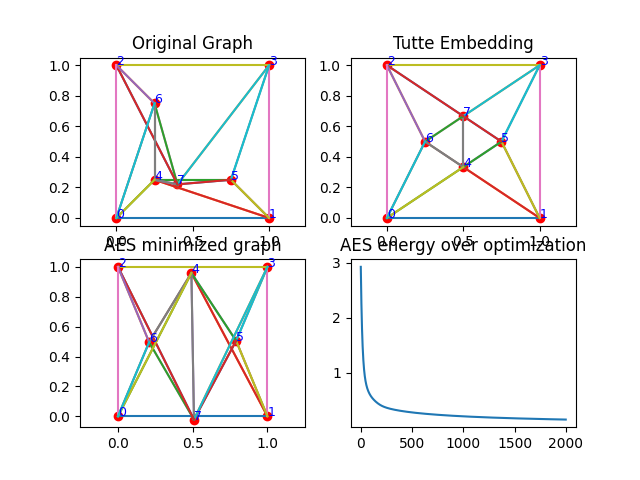
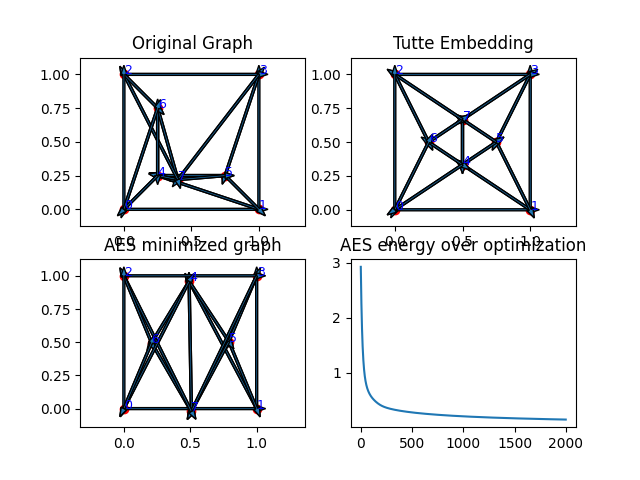
Added arrows to visualization (not very helpful as of now)

diff --git a/classes/Graphutil.py b/classes/Graphutil.py
@@ -37,9 +37,9 @@ def showGraph(Graph: TwoDGraph, plot):
     faces : tuple[int,int,int] = Graph.faces 
     vertices = Graph.vertices
     for [i,j,k] in faces: # type: ignore
-        realt.plot([vertices[0,i],vertices[0,j]],[vertices[1,i],vertices[1,j]])
-        realt.plot([vertices[0,j],vertices[0,k]],[vertices[1,j],vertices[1,k]])
-        realt.plot([vertices[0,i],vertices[0,k]],[vertices[1,i],vertices[1,k]])
+        realt.arrow(x = vertices[0,i],y=vertices[1,i], dx = vertices[0,j] - vertices[0,i],dy = vertices[1,j]-vertices[1,i], width = 0.015)
+        realt.arrow(x = vertices[0,j],y=vertices[1,j], dx = vertices[0,k] - vertices[0,j],dy = vertices[1,k]-vertices[1,j], width = 0.015)
+        realt.arrow(x = vertices[0,k],y=vertices[1,k], dx = vertices[0,i] - vertices[0,k],dy = vertices[1,i]-vertices[1,k], width = 0.015)
 
     realt.axis("equal")
 

diff --git a/mainrandomized.py b/mainrandomized.py
@@ -4,6 +4,7 @@ import sys
 
 from main import main
 from classes.TwoDGraph import TwoDGraph
+from scipy.spatial import Delaunay
 
 if __name__ == '__main__':
     if(len(sys.argv)<2):
@@ -11,10 +12,13 @@ if __name__ == '__main__':
     
     filepath = sys.argv[1]
 
+    #get hull vertices, TODO: very scuffed solution, will improve at later date
     data = ""
     with open(filepath , "r") as f:
         data = f.read()
-    Graph = TwoDGraph(vgl = data)
-    main(Graph, filepath)
+    vertices = TwoDGraph(vgl = data).vertices
+
+
+
 
 
